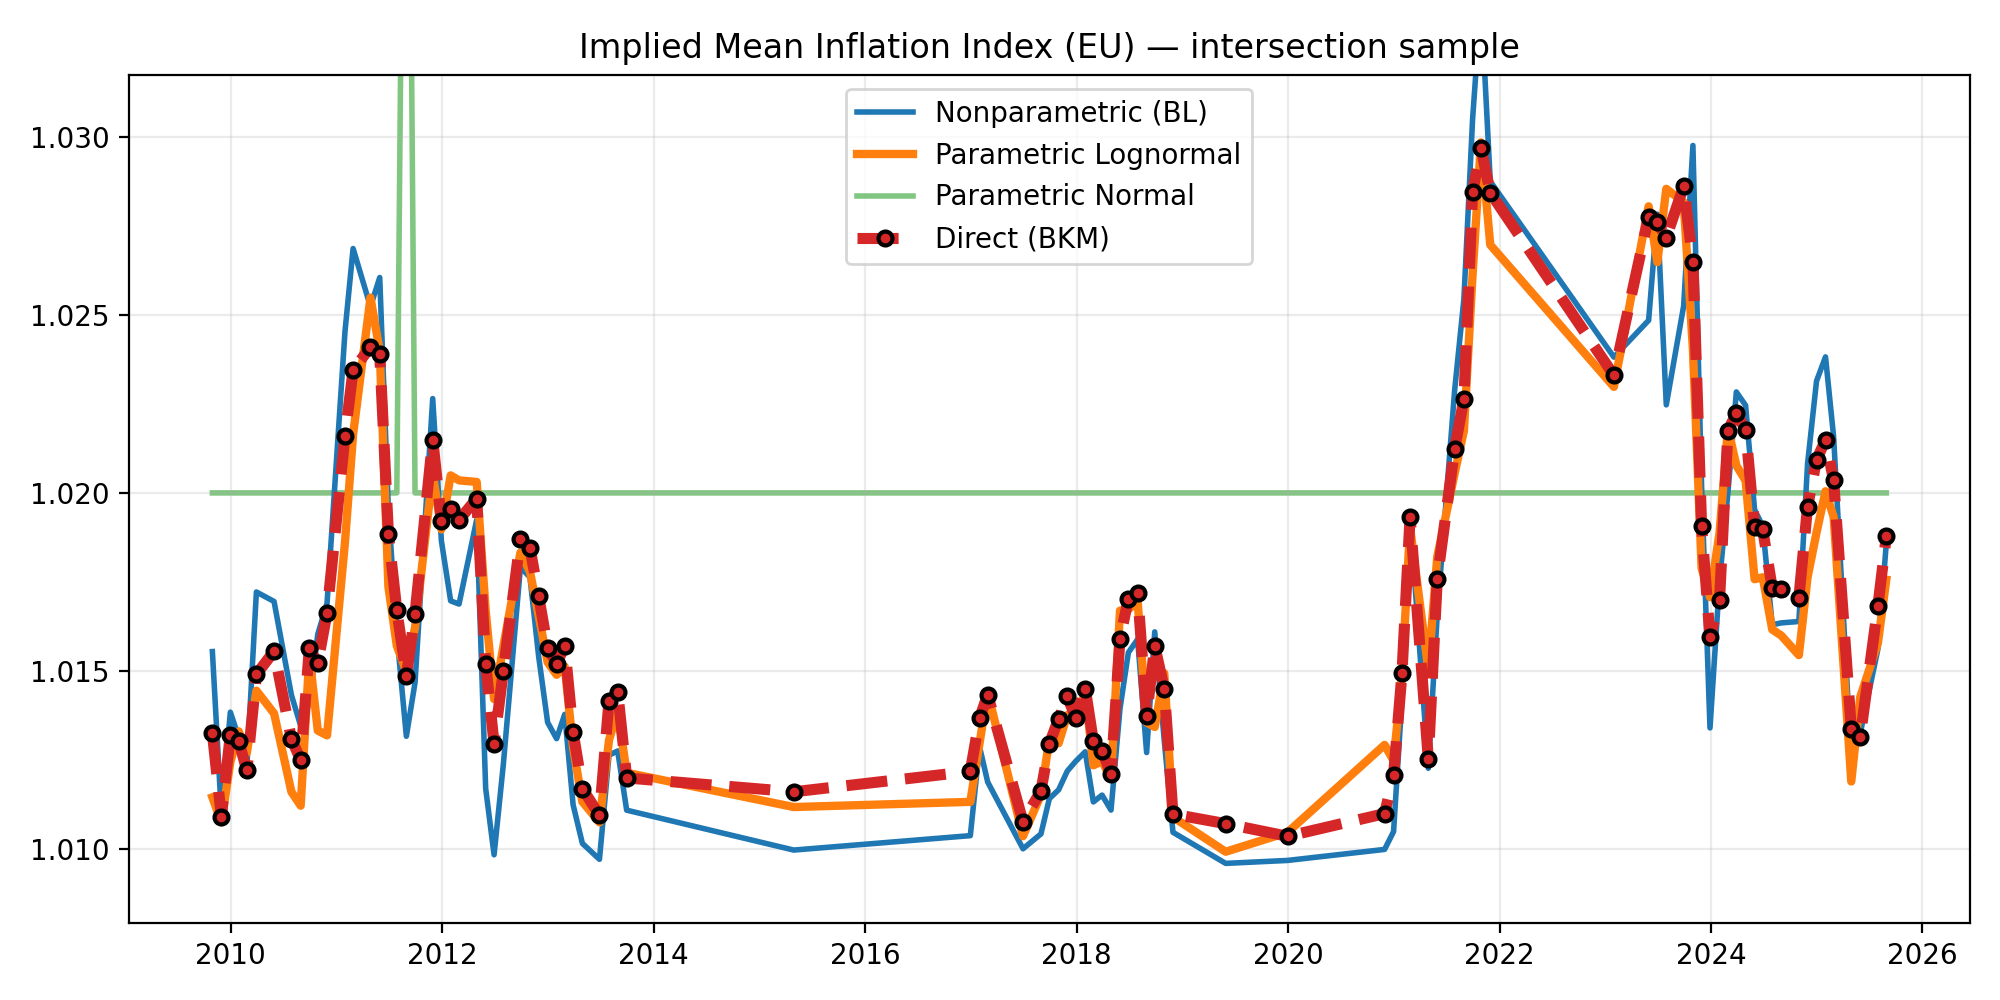
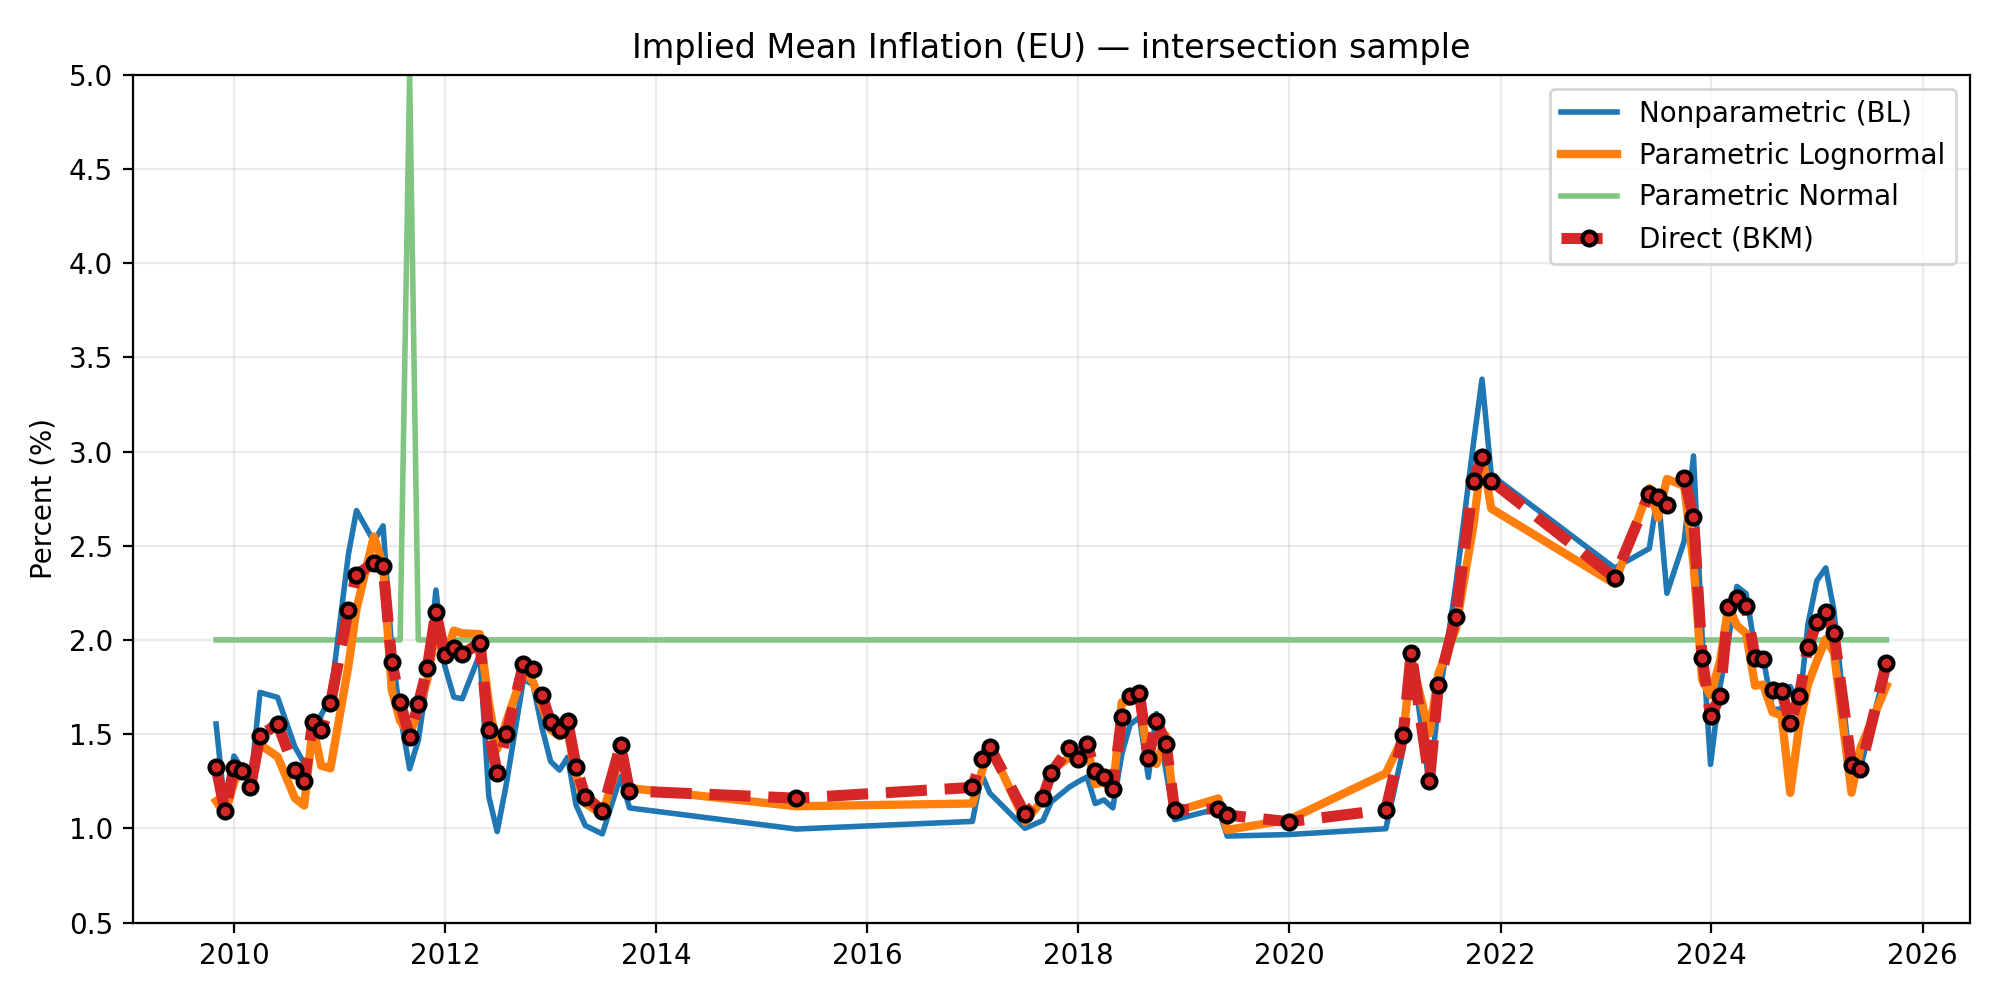
Mean plot fix

diff --git a/code/plot_comparison.py b/code/plot_comparison.py
@@ -105,31 +105,51 @@ def run_plot():
         raise RuntimeError("Intersection sample is empty — cannot plot.")
 
     # =======================
-    # MEAN PLOT
+    # MEAN PLOT (Inflation rate in %)
     # =======================
     fig, ax = plt.subplots(figsize=(10, 5))
 
-    ax.plot(df["date"], df["mean_bl"],   label="Nonparametric (BL)", linewidth=2, zorder=2)
-    ax.plot(df["date"], df["mean_logn"], label="Parametric Lognormal", linewidth=3, zorder=2)
-    ax.plot(df["date"], df["mean_norm"], label="Parametric Normal", linewidth=2, alpha=0.6, zorder=1)
+    def to_inflation_pct(s: pd.Series) -> pd.Series:
+        # mean is stored as gross index ratio X = 1 + pi (for 1Y), convert to % inflation
+        return 100.0 * (pd.to_numeric(s, errors="coerce") - 1.0)
 
-    ax.plot(
-        df["date"], df["mean_bkm"],
-        label="Direct (BKM)",
-        linewidth=4,
-        linestyle="--",
-        marker="o",
-        markersize=5,
-        markeredgewidth=1.5,
-        markeredgecolor="black",
-        zorder=10,
-    )
+    # Build plotting series WITHOUT overwriting df (so later bps-diff plots remain correct)
+    s_bl = to_inflation_pct(df["mean_bl"]) if "mean_bl" in df.columns else None
+    s_logn = to_inflation_pct(df["mean_logn"]) if "mean_logn" in df.columns else None
+    s_norm = to_inflation_pct(df["mean_norm"]) if "mean_norm" in df.columns else None
+    s_bkm = to_inflation_pct(df["mean_bkm"]) if "mean_bkm" in df.columns else None
 
-    ax.set_title(f"Implied Mean Inflation Index ({AREA}) — intersection sample")
+    # Plot other methods first
+    if s_bl is not None:
+        ax.plot(df["date"], s_bl, label="Nonparametric (BL)", linewidth=2, zorder=2)
+
+    if s_logn is not None:
+        ax.plot(df["date"], s_logn, label="Parametric Lognormal", linewidth=3, zorder=2)
+
+    if s_norm is not None:
+        ax.plot(df["date"], s_norm, label="Parametric Normal", linewidth=2, alpha=0.6, zorder=1)
+
+    # Plot BKM last + strong styling
+    if s_bkm is not None:
+        ax.plot(
+            df["date"], s_bkm,
+            label="Direct (BKM)",
+            linewidth=4,
+            linestyle="--",
+            marker="o",
+            markersize=5,
+            markeredgewidth=1.5,
+            markeredgecolor="black",
+            zorder=10,
+        )
+
+    ax.set_title(f"Implied Mean Inflation ({AREA}) — intersection sample")
+    ax.set_ylabel("Percent (%)")
     ax.grid(True, alpha=0.25)
     ax.legend()
 
-    set_robust_ylim(ax, [df["mean_bkm"], df["mean_bl"], df["mean_logn"], df["mean_norm"]])
+
+    ax.set_ylim(0.5, 5.0)
 
     fig.tight_layout()
     fig.savefig(out_dir / f"mean_comparison_{AREA}.png", dpi=200)
